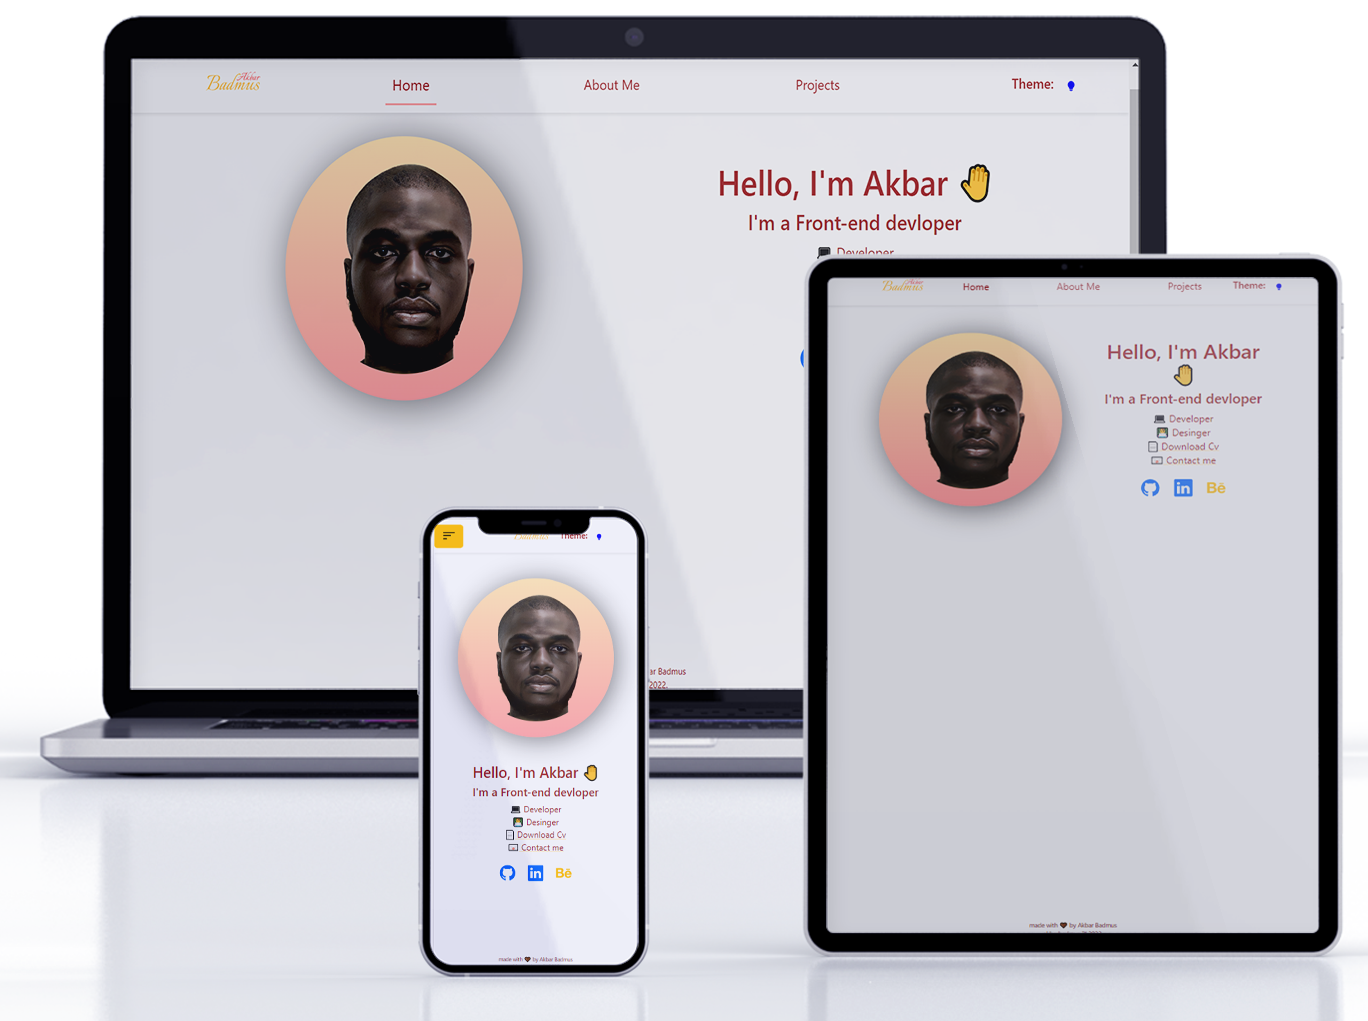
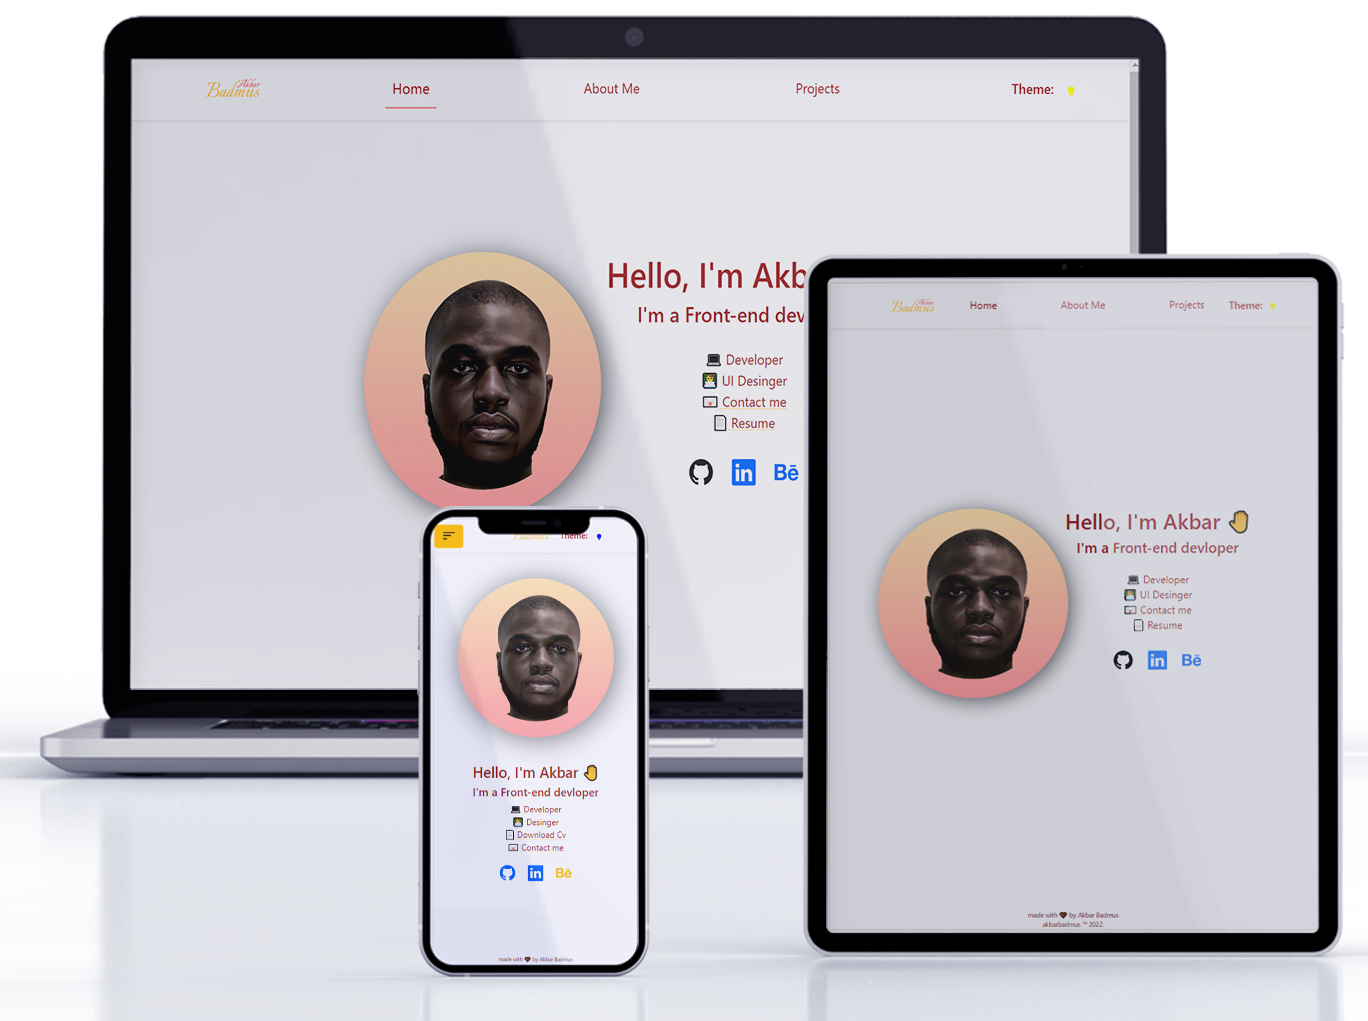
project-cards

diff --git a/src/Components/Pages/Home.js b/src/Components/Pages/Home.js
@@ -1,41 +1,48 @@
 import {Row, Col, Image, Button, } from 'react-bootstrap'
 import { Github, Instagram, Twitter, Linkedin, Behance } from 'react-bootstrap-icons'
-import { propTypes } from 'react-bootstrap/esm/Image';
 import {NavLink, Link} from "react-router-dom";
+import {motion} from 'framer-motion'
+
 
 export default function Home(props){
+    
+    
     return(
-        <div style={{minHeight: "90vh"}} className="container ">
-            <Row className='align-items-center text-center'> 
-                <Col className='col-12 col-md-5 mt-5 mx-auto'>
-                    <div className='user-bg mx-auto d-flex align-items-center justify-content-center'>
+        <motion.div
+            initial={{opacity:0, width:0}}
+            animate={{opacity:1, width:"100%"}}
+            exit={{opacity:0, x:window.innerWidth, transition:{duration:0.5}}}
+            style={{minHeight: "90vh"}} className="container d-flex justify-content-center align-items-center">
+            <Row className='text-center '> 
+                <Col className='col-12 col-md-5 mx-auto mb-5'>
+                    <div className='user-bg  d-flex justify-content-center mx-auto my-auto'>
                         <Image className='pic user img-fluid align-self-center' src='images/me.png'/>
                     </div>
 
                     
 
                 </Col>
-                <Col className='col-12 col-md-5 mt-5 mx-auto'>
+                <Col className='col-12  col-md-7  mx-auto'>
                 <h1>Hello, I'm Akbar <span className='hand'>🤚</span></h1>
                 <h4>I'm a Front-end devloper</h4>
-                <ul className='list-unstyled'>
+                <ul className='list-unstyled my-4 '>
                     <li> 💻 Developer</li>
-                    <li> 👨💻 Desinger</li>
-
-                    <li>📄<a href="Cv/Akbar React Cv.pdf" download="Akbar React Cv" target='_blank' className={props.setTheme.a}> Download Cv
-                    </a></li>
+                    <li> 👨💻 UI Desinger</li>
+                    
                     <li >📧<a href="mailto:akbarbadmus07@gmail.com" className={props.setTheme.a}> Contact me</a> </li>
+                    <li>📄<a href="Cv/Akbar React Cv.pdf" download="Akbar React Cv" target='_blank' className={props.setTheme.a}>  Resume
+                    </a></li>
 
                 </ul>
                 <div className="col-12 text-center">
-                    <Button variant="outline-primary" className="border-0"><Github size={30}/></Button>
-                    <Button  variant="outline-primary" className="border-0" ><Linkedin size={30}/></Button>
-                    <Button  variant="outline-warning" className="border-0 " ><Behance size={30}/></Button>
+                    <Button variant="outline-dark" className="border-0 shadow-none" href='https://github.com/akbarob' target='_blank'><Github size={30}/></Button>
+                    <Button  variant="outline-primary" className="border-0 shadow-none" href='https://www.linkedin.com/in/akbar-badmus-10790a179/' target='_blank' ><Linkedin size={30}/></Button>
+                    <Button  variant="outline-primary" className="border-0 shadow-none" href='https://www.behance.net/akbarbadmus' target='_blank'><Behance size={30}/></Button>
                 </div>
 
                 
                 </Col>
             </Row>
-        </div>
+        </motion.div>
     )
 }

diff --git a/src/Components/Pages/Projects.js b/src/Components/Pages/Projects.js
@@ -1,34 +1,60 @@
 import {Card,Badge} from 'react-bootstrap'
 import { Info } from '../Info'
 import {Link} from 'react-router-dom'
+import {motion} from 'framer-motion'
 export default function Projects(props){
+    const container = {
+        hidden: { opacity: 0 },
+        show: {
+          opacity: 1,
+          transition: {
+            staggerChildren: 0.5
+          }
+        }
+      }
+      
+      const item = {
+        hidden: { opacity: 0 },
+        show: { opacity: 1 }
+      }
     
     const proj = Info.map( item =>{
         console.log(item.skills)
         return(
-            <div key={item.id} className='col-12 col-md-5 col-lg-3 mx-auto text-center mb-5'>
-                <a href={item.website} target={"_blank"} rel="noopener noreferrer"  className={props.setTheme.a} >
+            <motion.div 
+               
+                key={item.id} className='col-12 col-md-5 col-lg-3 mx-auto text-center mb-5'>
+                <a href={item.website} target={"_blank"} rel="noopener noreferrer"  className={props.setTheme.a} 
+                initial="hidden" animate="show"  variants={container}>
 
-                    <Card  className={props.setTheme.Navlink}>
+                    <motion.Card  className={props.setTheme.card} variants={item}>
                         <Card.Img src={item.image}/>
-                        <Card.Body className='cardbody'>
+                        <Card.Body className='cardbody rounded'>
                             <Card.Title> {item.name}</Card.Title>
                             <Badge pill bg='danger' className='mx-1'>{item.skills.react}</Badge> 
                             <Badge pill bg='danger' className='mx-1'>{item.skills.redux}</Badge> 
                             <Badge pill bg='danger' className='mx-1'>{item.skills.bs}</Badge>
-                            <Badge pill bg='danger' className='mx-1'>{item.skills.rest}</Badge>  
+                            <Badge pill bg='danger' className='mx-1'>{item.skills.rest}</Badge> 
+                            <Badge pill bg='danger' className='mx-1'>{item.skills.css}</Badge>  
+ 
                         </Card.Body>
 
-                    </Card>
+                    </motion.Card>
                 </a>
-            </div>
+            </motion.div>
             
         )
     })
     return(
-        <div className='container my-5 row mx-auto'>
+        <motion.div 
+            initial={{opacity:0, width:0}}
+            animate={{opacity:1, width:"100%"}}
+            exit={{opacity:0, x:window.innerWidth, transition:{duration:0.5}}}
+            className='container  row mx-auto align-items-center'
+            style={{minHeight: "85vh"}}
+            >
             {proj}
             
-        </div>
+        </motion.div>
     )
 }

diff --git a/src/Components/header.js b/src/Components/header.js
@@ -16,7 +16,7 @@ export default function Header(props){
                 <Button variant={props.isDark? 'danger': 'warning'} onClick={handleOffcanvasNav} className='d-md-none shadow-none'>
                         <FilterLeft size={30}/>
                     </Button>
-                <NavbarBrand className="ms-5 ps-5" >
+                <NavbarBrand className="ms-5 ps-5 mt-2" >
                     <Link to="/home">
                         <Image src="/images/logo-svg.svg" style={{width: 70}} />
                         </Link>
@@ -50,14 +50,14 @@ export default function Header(props){
                 <Nav className="ms-auto  me-2">
                     <NavItem
                     onClick={props.toggleTheme}
-                    className="theme mt-1 me-5">
+                    className="theme mt-2 me-5">
                             <Row>
                                 <Col className="col-7 mx-auto ">
                                 <h6 className="theme">Theme:</h6>
                                 </Col>
                                 <Col className="">
                                     <LightbulbFill
-                                        color={props.isDark? "red" : "blue" }
+                                        color={props.isDark? "brown" : "yellow" }
                                         
                                         className='pb-1'
                                         size={15}/>

diff --git a/src/Components/Pages/AboutMe.js b/src/Components/Pages/AboutMe.js
@@ -1,6 +1,11 @@
+import {motion} from 'framer-motion' 
 export default function AboutMe(){
     return(
-        <div className="container my-5 " style={{minHeight: "80vh"}}>
+        <motion.div
+            initial={{opacity:0, width:0}}
+            animate={{opacity:1, width:"100%"}}
+            exit={{opacity:0, x:window.innerWidth, transition:{duration:0.5}}}
+            className="container my-5 " style={{minHeight: "80vh"}}>
             <div className="col-10 col-md-8 mx-auto about-bg"> 
                 <h5 className="text-center">Akbar Badmus</h5>
                 <p>Hello stalker! I'm Akbar, a front-end developer from Nigeria. I love building web applications with React, and I'm currently studying server side. I am on a journey to make the world a better place while constantly learning daily .
@@ -37,6 +42,6 @@ I still don't know if it's "front-end", "frontend, or "front end", and at this p
 
 
 
-        </div>
+        </motion.div>
     )
 }

diff --git a/src/Components/Themes/theme.js b/src/Components/Themes/theme.js
@@ -4,6 +4,7 @@ export const themes={
     darkMode: {
         className: "bg-dark motion btn-outline-warning darkmode",
         Navlink: "darkmode nav-link linker",
+        card:"darkmode nav-link card ",
         navshade:'dark-shade-sm sticky-top darkmode',
         footer:'footer darkmode text-center  motion ',
         color: 'darkmode',
@@ -13,8 +14,9 @@ export const themes={
     lightMode:{
         className:"bg-light  motion btn-outline-danger lightmode",
         Navlink: "lightmode nav-link linker",
+        card:"lightmode nav-link card ",
         navshade:'light-shade-sm sticky-top lightmode',
-        footer:'footer lightmode   text-center motion  ',
+        footer:'footer lightmode   text-center motion',
         color: 'lightmode',
         header:'ligtmodenav',
         a:'a lightmode'

diff --git a/src/Components/Info.js b/src/Components/Info.js
@@ -8,7 +8,8 @@ export const Info =[
             react:'React',
             redux:'Redux',
             bs:'Bootstrap',
-            rest:'REST Api'
+            rest:'REST Api',
+            css:'CSS'
         }
     },
     {
@@ -20,7 +21,8 @@ export const Info =[
             react:'React',
             redux:'Redux',
             bs:'Bootstrap',
-            rest:'REST Api'
+            rest:'REST Api',
+            css:'CSS'
         }
 
     },
@@ -32,8 +34,18 @@ export const Info =[
         skills:{
             react:'React',
             bs:'Bootstrap',
+            css:'CSS'
         
         }
 
-    }
+    },
+]
+export const ProfileLinks=[
+       {
+            id:0,
+            github:'git',
+            linkedin:'link',
+            behance:'behance',
+        }
+    
 ]

diff --git a/src/App.css b/src/App.css
@@ -33,6 +33,14 @@
   transition: all 0.4s ease-in-out;
 
 }
+.card{
+  border: 0px!important;
+}
+.card:hover, .card:focus{
+  transform: scale(1.1);
+  transition: all 0.4s ease;
+
+}
 
 .off-navi{
   transition: all 0.5s ease-in-out;
@@ -45,7 +53,7 @@
   
 }
 .user-bg{
-  box-shadow: 5px 5px 50px grey;
+  box-shadow: 5px 5px 30px grey;
   border-radius: 50%;
   width: 300px;
   height: 300px;

diff --git a/public/index.html b/public/index.html
@@ -24,7 +24,7 @@
       work correctly both with client-side routing and a non-root public URL.
       Learn how to configure a non-root public URL by running `npm run build`.
     -->
-    <title>React App</title>
+    <title>Akbar Badmus</title>
   </head>
   <body>
     <noscript>You need to enable JavaScript to run this app.</noscript>
